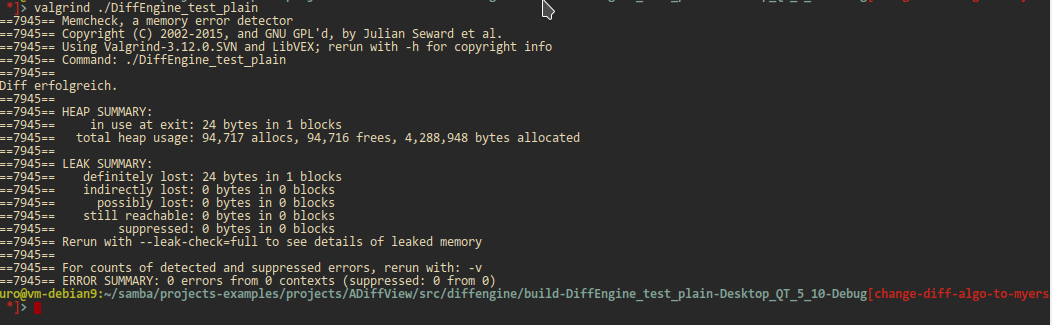
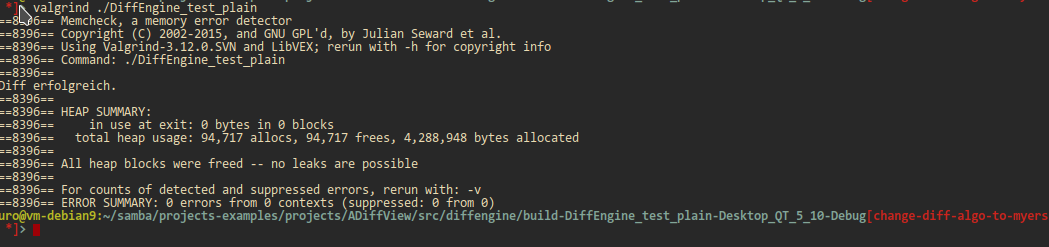
Fixed memory leak

Changed region(s): [[0.0, 0.0, 1.0, 0.9636], [0.4881, 0.0, 0.5491, 0.0567], [0.7321, 0.0, 0.7626, 0.0283]]

diff --git a/src/diffengine/DiffEngine.cpp b/src/diffengine/DiffEngine.cpp
@@ -85,7 +85,7 @@ bool DiffEngine::Diff(DiffFilePartition& srcA,
   Pair* pItem = (Pair*)pPath->GetFirst();
   int x1 = pItem->Left();
   int y1 = pItem->Top();
-
+  delete pItem;
 
 
   while((pItem = (Pair*)pPath->GetNext()) != NULL)
@@ -253,7 +253,6 @@ bool DiffEngine::midPair(Box& box, DiffFilePartition& a, DiffFilePartition& b)
   delete[] vf;
   delete[] vb;
 
-//  box.Set(0, 0, 0, 0);
   return false;
 }
 
@@ -309,7 +308,6 @@ bool DiffEngine::forwards(Box& box, int* vf, int* vb, int vSize, int d, DiffFile
     }
   }
 
-  //box.Set(0, 0, 0, 0);
   return false;
 }
 
@@ -365,7 +363,6 @@ bool DiffEngine::backward(Box& box, int* vf, int* vb, int vSize, int d, DiffFile
     }
   }
 
-  //box.Set(0, 0, 0, 0);
   return false;
 }
 
